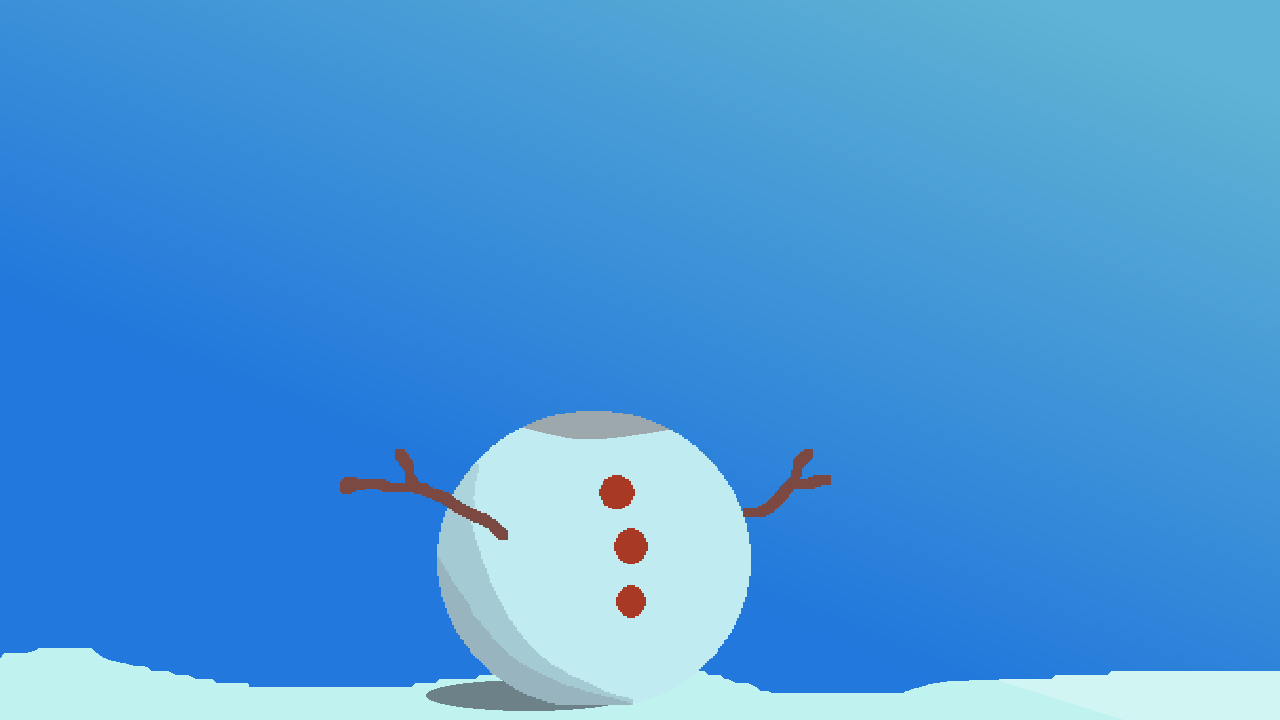
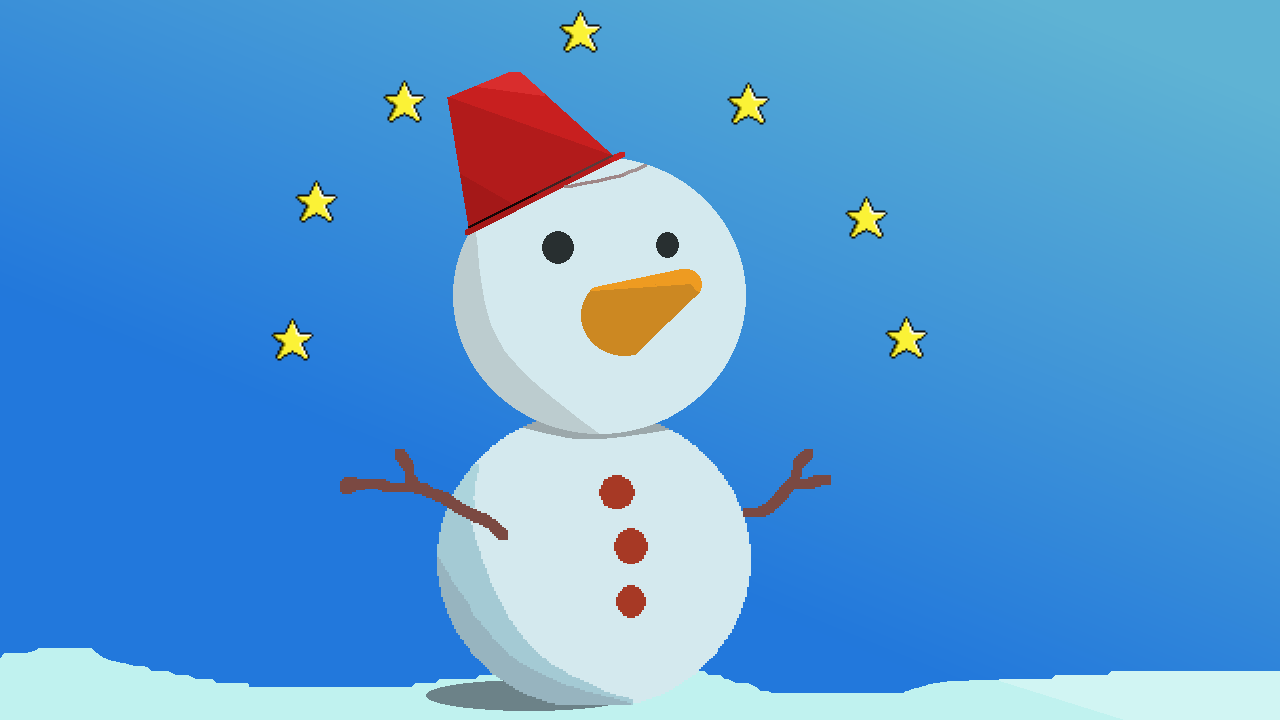
クリア画像差し替え

diff --git a/include/game/ClearScene.cpp b/include/game/ClearScene.cpp
@@ -57,12 +57,12 @@ void ClearScene::Draw2D()
 {
 	//Sprite::Draw(test.get(), m_commonData->camera2D.get());
 
-	if (Game::IsDebugMode()) {
-		Sprite::Draw(debug.get(), m_commonData->camera2D.get());
-	}
+	//if (Game::IsDebugMode()) {
+	//	Sprite::Draw(debug.get(), m_commonData->camera2D.get());
+	//}
 
 	Sprite::Draw(clear_bg, m_commonData->camera2D.get());
-	Sprite::Draw(head, m_commonData->camera2D.get());
+	//Sprite::Draw(head, m_commonData->camera2D.get());
 }
 
 void ClearScene::ChangeScene()
